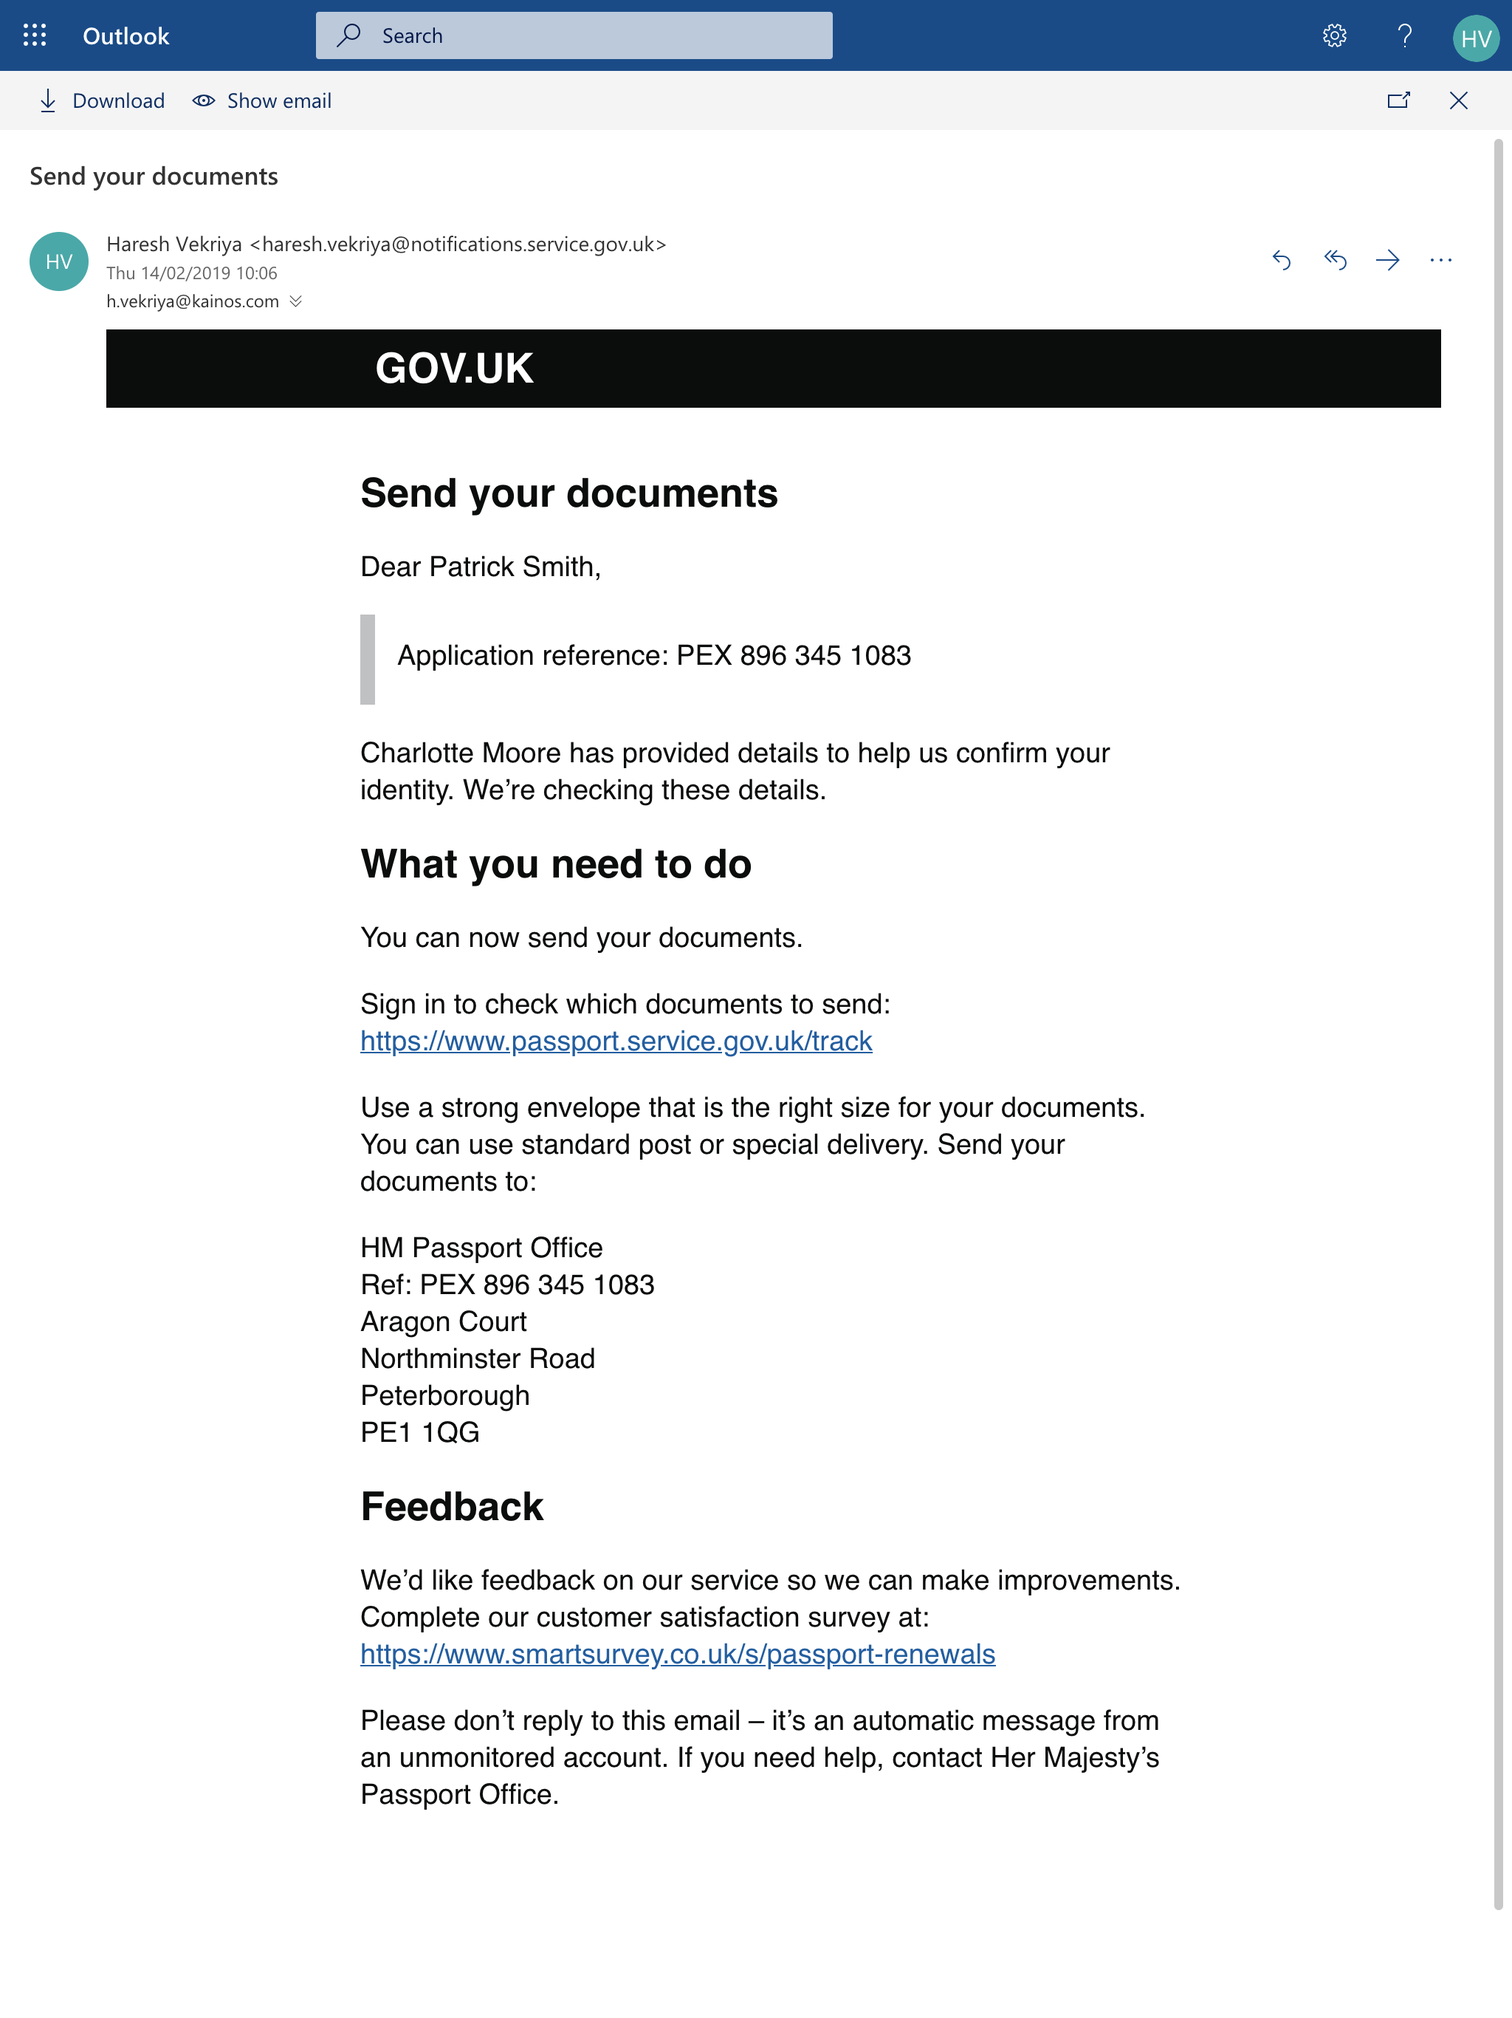
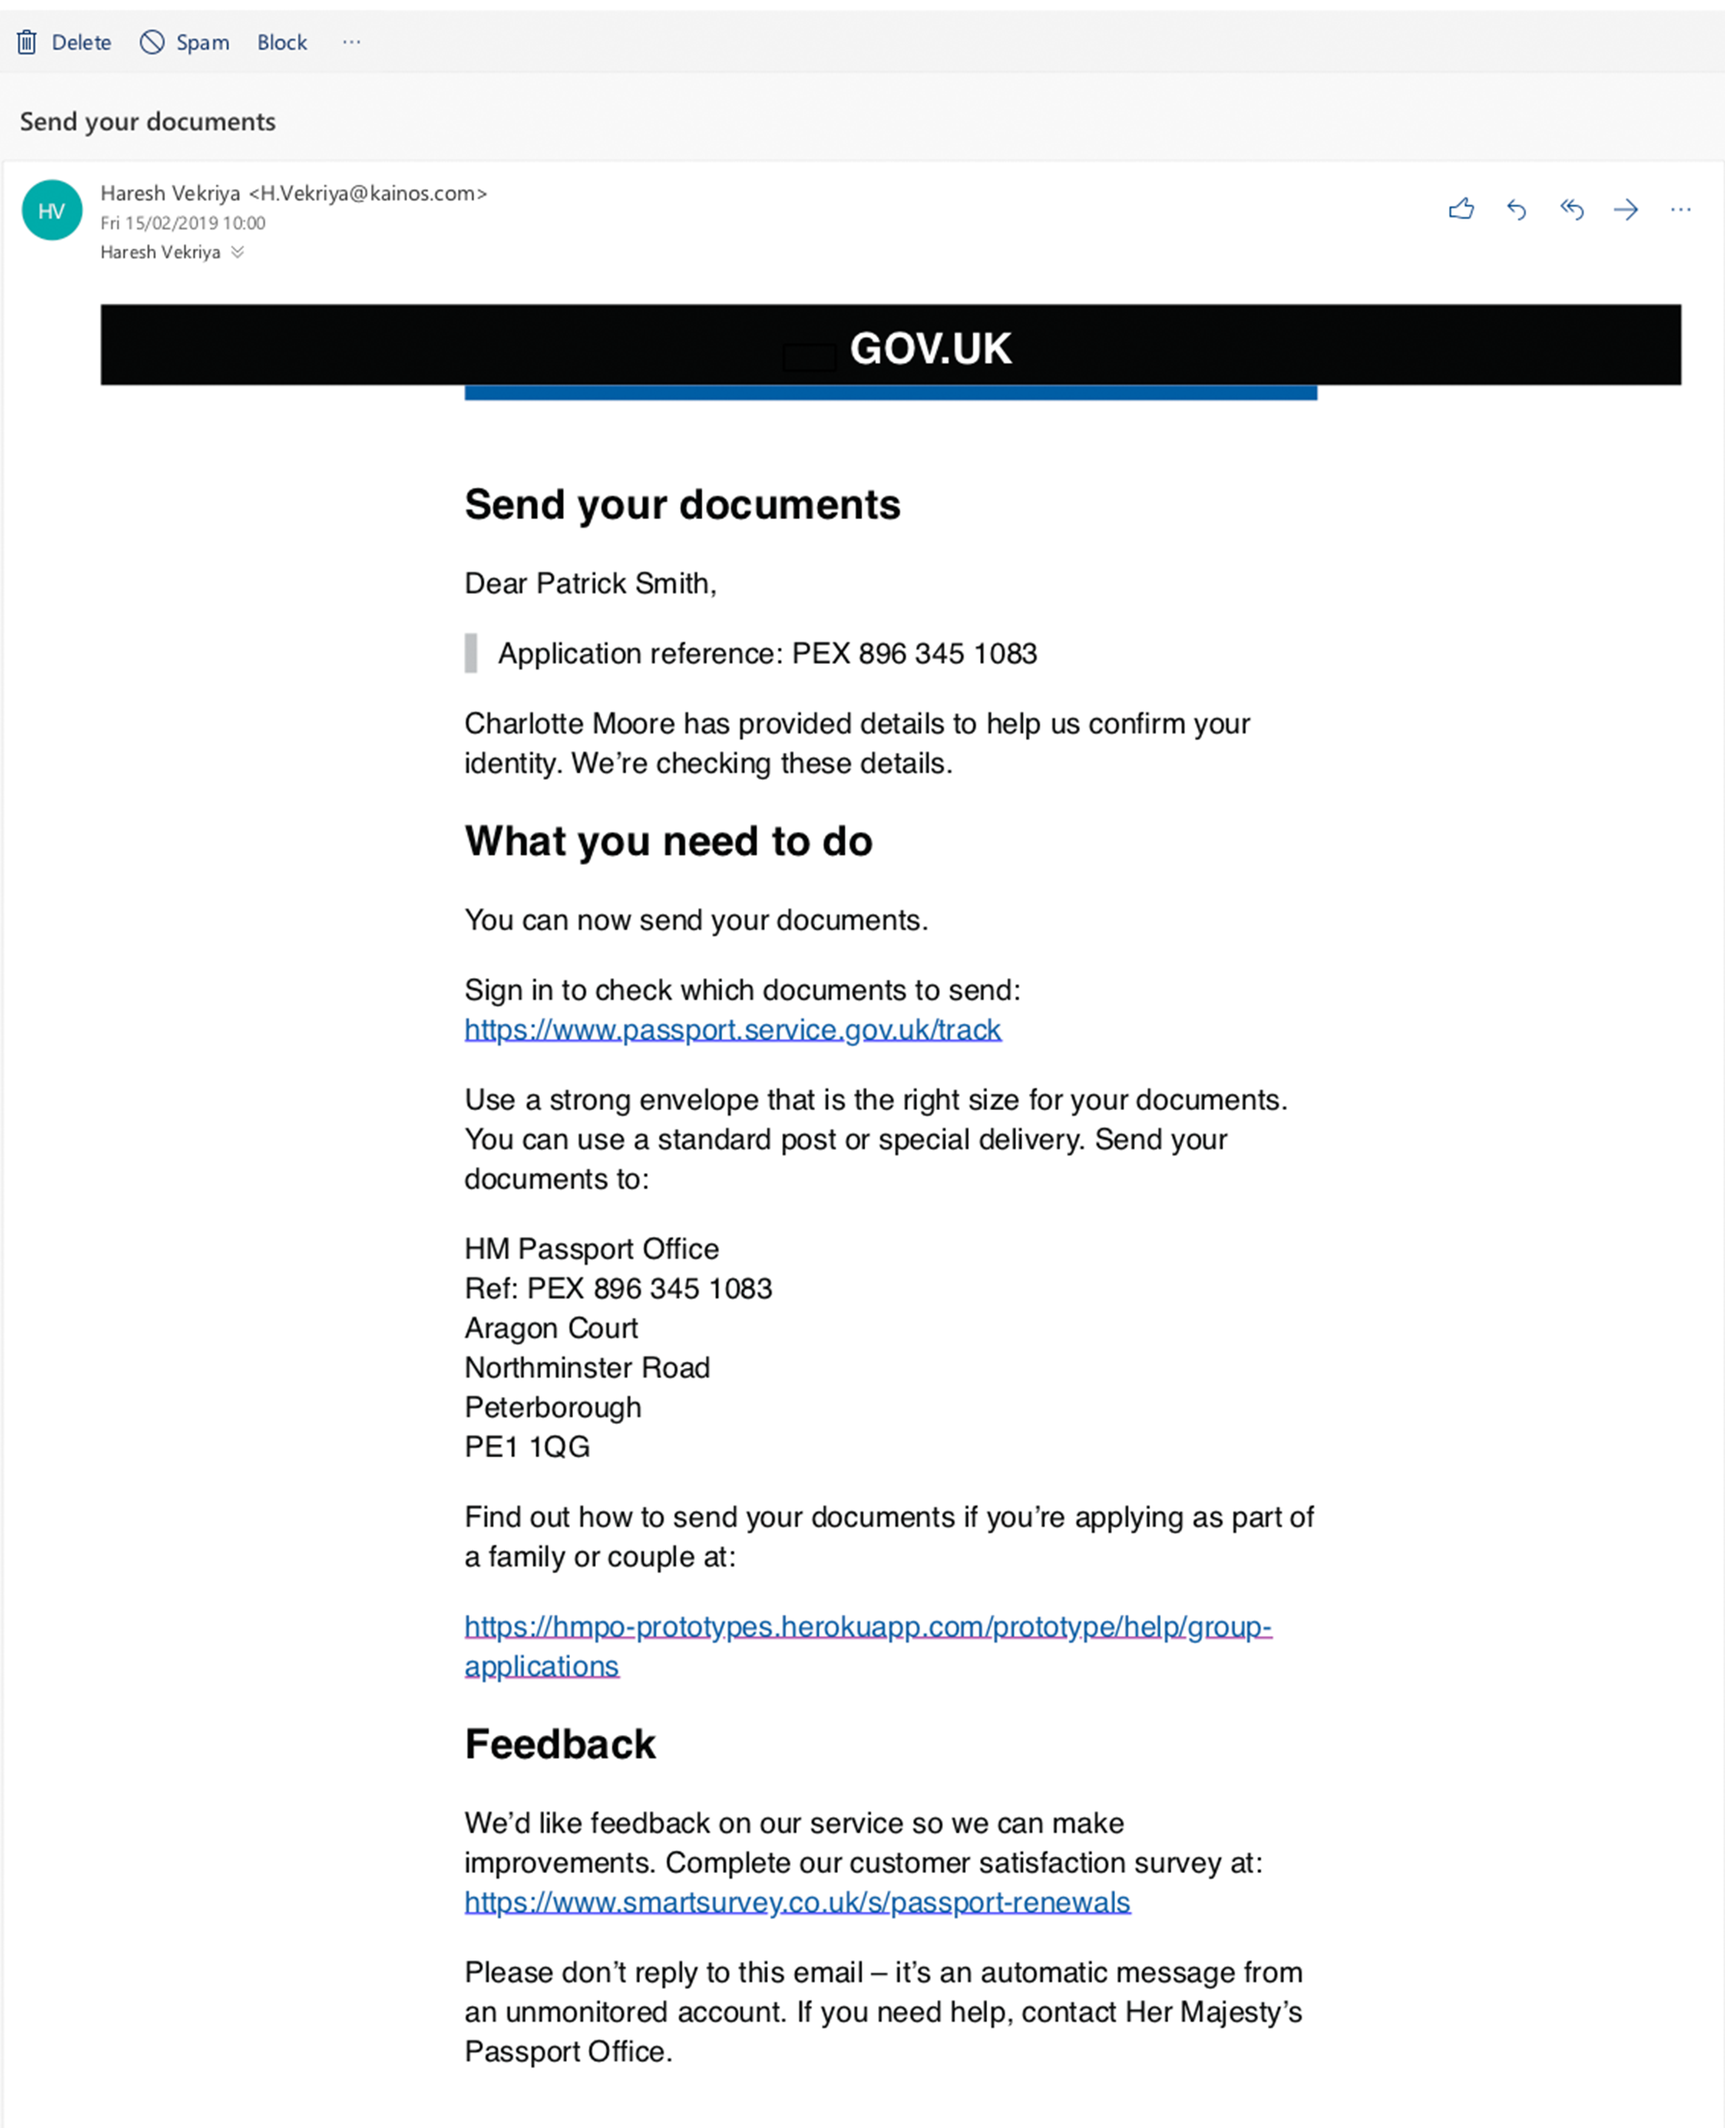
Added proper sidebar linking and updated the email screenshots

diff --git a/views/partials/csig/sidebar.html b/views/partials/csig/sidebar.html
@@ -1,31 +1,33 @@
-<div class="sidebar-container">
-  <ul class="sidebar-task">
-    <li class="sidebar-task__panel">
-      <h3>Application reference</h3>
-      <p>PEX 319 825 680X</p>
-    </li>
-    {{#nunjucks}}
-      {% if values['csig-type'] != 'examiner' %}
-        {% if values['change-of-name-reason'] or not values['lost-stolen-no-docs'] %}
-          <li class="sidebar-task__panel">
-            <h3>Documents</h3>
-            {% if values['passport-before'] %}
-              <a href="/prototype/apply/docs-renew" target="_blank">
-                What you need to send
-              </a>
-            {% else %}
-              <a href="/prototype/apply/docs-fta" target="_blank">
-                What you need to send
-              </a><br>
-            {% endif %}
-          </li>
+{{#nunjucks}}
+  <div class="sidebar-container">
+    <ul class="sidebar-task">
+      <li class="sidebar-task__panel">
+        <h3>Application reference</h3>
+        <p>PEX 319 825 680X</p>
+      </li>
+        {% if values['csig-type'] != 'examiner' %}
+          {% if values['change-of-name-reason'] or not values['lost-stolen-no-docs'] %}
+            <li class="sidebar-task__panel">
+              <h3>Documents</h3>
+              {% if values['passport-before'] %}
+                <a href="/prototype/apply/docs-renew" target="_blank">
+                  What you need to send
+                </a>
+              {% else %}
+                <a href="/prototype/apply/docs-fta" target="_blank">
+                  What you need to send
+                </a><br>
+              {% endif %}
+            </li>
+          {% endif %}
         {% endif %}
+      {% if values['status'] === 'waiting-for-old' or values['status'] === 'send-us-your-docs' %}
+        <li class="sidebar-task__panel" style="border-top: none;">
+          <h3>Other links</h3>
+          <p><a href="/prototype/startpage">Start a new application</a></p>
+          <p><a href="/prototype/startpage">Give feedback</a></p>
+        </li>
       {% endif %}
-    {{/nunjucks}}
-    <li class="sidebar-task__panel">
-      <h3>Other links</h3>
-      <p><a href="/prototype/startpage">Start a new application</a></p>
-      <p><a href="/prototype/startpage">Give feedback</a></p>
-    </li>
-  </ul>
-</div>
+    </ul>
+  </div>
+{{/nunjucks}}

diff --git a/views/tracking/send-us-your-documents.html b/views/tracking/send-us-your-documents.html
@@ -22,15 +22,48 @@
         Aragon Court<br>
         Northminster Road<br>
         Peterborough<br>
-        PE1 1QG</p>
+        PE1 1QG
+      </p>
       
+      <p>Find out how to send your documents if you're <a href="../../prototype/help/group-applications.html">applying as part of a family or couple</a>.</p>
+
       <details>
         <summary><span class="summary">Already sent</span></summary>
         <div class="panel panel-border-narrow">
           <p>Check again in 3 days. If we still haven’t received your documents, <a href="/help" target="_blank">contact HM Passport Office <span class="visuallyhidden">(Opens in a new window)</span></a></p>
         </div>
       </details>
-      {{> partials-csig-sidebar}}
+      {{#nunjucks}}
+        <div class="sidebar-container">
+          <ul class="sidebar-task">
+            <li class="sidebar-task__panel">
+              <h3>Application reference</h3>
+              <p>PEX 319 825 680X</p>
+            </li>
+              {% if values['csig-type'] != 'examiner' %}
+                {% if values['change-of-name-reason'] or not values['lost-stolen-no-docs'] %}
+                  <li class="sidebar-task__panel">
+                    <h3>Documents</h3>
+                    {% if values['passport-before'] %}
+                      <a href="/prototype/apply/docs-renew" target="_blank">
+                        What you need to send
+                      </a>
+                    {% else %}
+                      <a href="/prototype/apply/docs-fta" target="_blank">
+                        What you need to send
+                      </a><br>
+                    {% endif %}
+                  </li>
+                {% endif %}
+              {% endif %}
+              <li class="sidebar-task__panel" style="border-top: none;">
+                <h3>Other links</h3>
+                <p><a href="/prototype/startpage">Start a new application</a></p>
+                <p><a href="/prototype/startpage">Give feedback</a></p>
+              </li>
+          </ul>
+        </div>
+      {{/nunjucks}}
       <hr>
       <h2>Application history</h2>
       <article>

diff --git a/views/tracking/waiting-for-old.html b/views/tracking/waiting-for-old.html
@@ -22,7 +22,10 @@
         Aragon Court<br>
         Northminster Road<br>
         Peterborough<br>
-        PE1 1QG</p>
+        PE1 1QG
+      </p>
+      
+      <p>Find out how to send your documents if you're <a href="../../prototype/help/group-applications.html">applying as part of a family or couple</a>.</p>
       
       <details>
         <summary><span class="summary">Already sent</span></summary>
@@ -30,7 +33,37 @@
           <p>Check again in 3 days. If we still haven’t received your old passport, <a href="/help" target="_blank">contact HM Passport Office <span class="visuallyhidden">(Opens in a new window)</span></a></p>
         </div>
       </details>
-      {{> partials-csig-sidebar}}
+      {{#nunjucks}}
+        <div class="sidebar-container">
+          <ul class="sidebar-task">
+            <li class="sidebar-task__panel">
+              <h3>Application reference</h3>
+              <p>PEX 319 825 680X</p>
+            </li>
+              {% if values['csig-type'] != 'examiner' %}
+                {% if values['change-of-name-reason'] or not values['lost-stolen-no-docs'] %}
+                  <li class="sidebar-task__panel">
+                    <h3>Documents</h3>
+                    {% if values['passport-before'] %}
+                      <a href="/prototype/apply/docs-renew" target="_blank">
+                        What you need to send
+                      </a>
+                    {% else %}
+                      <a href="/prototype/apply/docs-fta" target="_blank">
+                        What you need to send
+                      </a><br>
+                    {% endif %}
+                  </li>
+                {% endif %}
+              {% endif %}
+              <li class="sidebar-task__panel" style="border-top: none;">
+                <h3>Other links</h3>
+                <p><a href="/prototype/startpage">Start a new application</a></p>
+                <p><a href="/prototype/startpage">Give feedback</a></p>
+              </li>
+          </ul>
+        </div>
+      {{/nunjucks}}
       <hr>
       <h2>Application history</h2>
       <article>

diff --git a/views/prototype/apply/confirmation.html b/views/prototype/apply/confirmation.html
@@ -63,7 +63,7 @@
                 {% if values['change-of-name-reason'] or values['application-for-someone-else'] %}
                     <p>You'll need your application reference: PEX 319 825 680X <br><a href="/tracking?status=send-us-your-docs">https://www.passport.service.gov.uk/track</a></p>
                 {% else %}
-                    <p>You'll need your application reference: PEX 319 825 680X <br><a href="/tracking">https://www.passport.service.gov.uk/track</a></p>
+                    <p>You'll need your application reference: PEX 319 825 680X <br><a href="/tracking?status=waiting-for-old">https://www.passport.service.gov.uk/track</a></p>
                 {% endif %}
 
             {# 0–11 Renewals, Replacements Damaged Child 0–11s, FTC, FTA, Old blue #}

diff --git a/controllers/app-type.js b/controllers/app-type.js
@@ -101,6 +101,13 @@ Controller.prototype.successHandler = function successHandler(req, res, callback
   //   req.sessionModel.set('application-type', 'overseas-' + applicationType)
   // }
 
+  /* Countersignitures */
+  let applicationType = req.sessionModel.get('application-type')
+  if(applicationType === 'first-adult' || applicationType === 'first-child' || applicationType === 'renew-child-0-11') {
+    req.sessionModel.set('csig-required', true)
+  } else {
+    req.sessionModel.set('csig-required', false)
+  }
 
   console.log(req.session)
   Base.prototype.successHandler.call(this, req, res, callback);

diff --git a/views/start.html b/views/start.html
@@ -31,8 +31,8 @@
   
   <h2>Tracking pages</h2>
   <ul>
-    <li><a href="./tracking/waiting-for-old">Renew application recieved</a></li>
-    <li><a href="./tracking/send-us-your-documents">Send us your documents</a></li>
+    <li><a href="./tracking/waiting-for-old?status=waiting-for-old">Renew application recieved</a></li>
+    <li><a href="./tracking/send-us-your-documents?status=send-us-your-docs">Send us your documents</a></li>
   </ul>
 
   <h2>Email notifications</h2>

diff --git a/routes/tracking/steps.js b/routes/tracking/steps.js
@@ -16,8 +16,12 @@ module.exports = {
             }
         }]
     },
-    '/waiting-for-old': {},
-    '/send-us-your-documents': {},
+    '/waiting-for-old': {
+        controller: require('../../controllers/check-query-string'),
+    },
+    '/send-us-your-documents': {
+        controller: require('../../controllers/check-query-string'),
+    },
     '/recieved-your-documents': {},
     '/photo-rejected': {},
     '/new-photo-arrived': {},

diff --git a/views/tracking/CON/waiting-for-old.html b/views/tracking/CON/waiting-for-old.html
@@ -24,6 +24,8 @@
         London<br>
         SW1 1PN</p>
 
+      <p>Find out how to send your documents if you're <a href="../../prototype/help/group-applications.html">applying as part of a family or couple</a>.</p>
+
       <details>
         <summary><span class="summary">I've already sent it</span></summary>
         <div class="panel panel-border-narrow">
